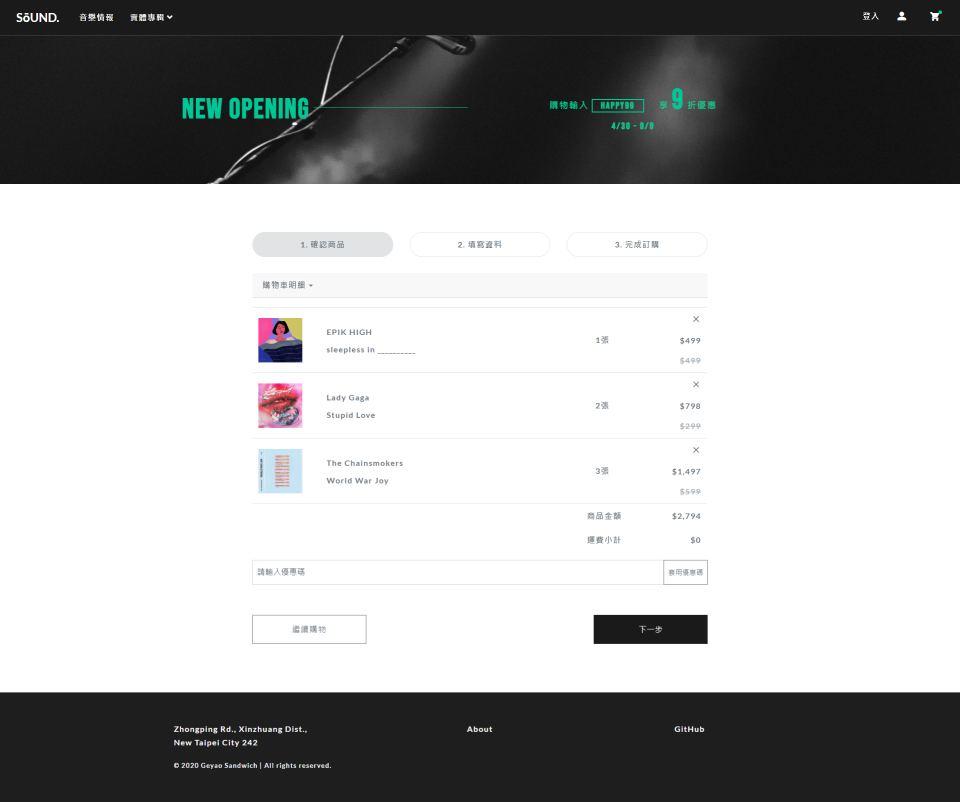
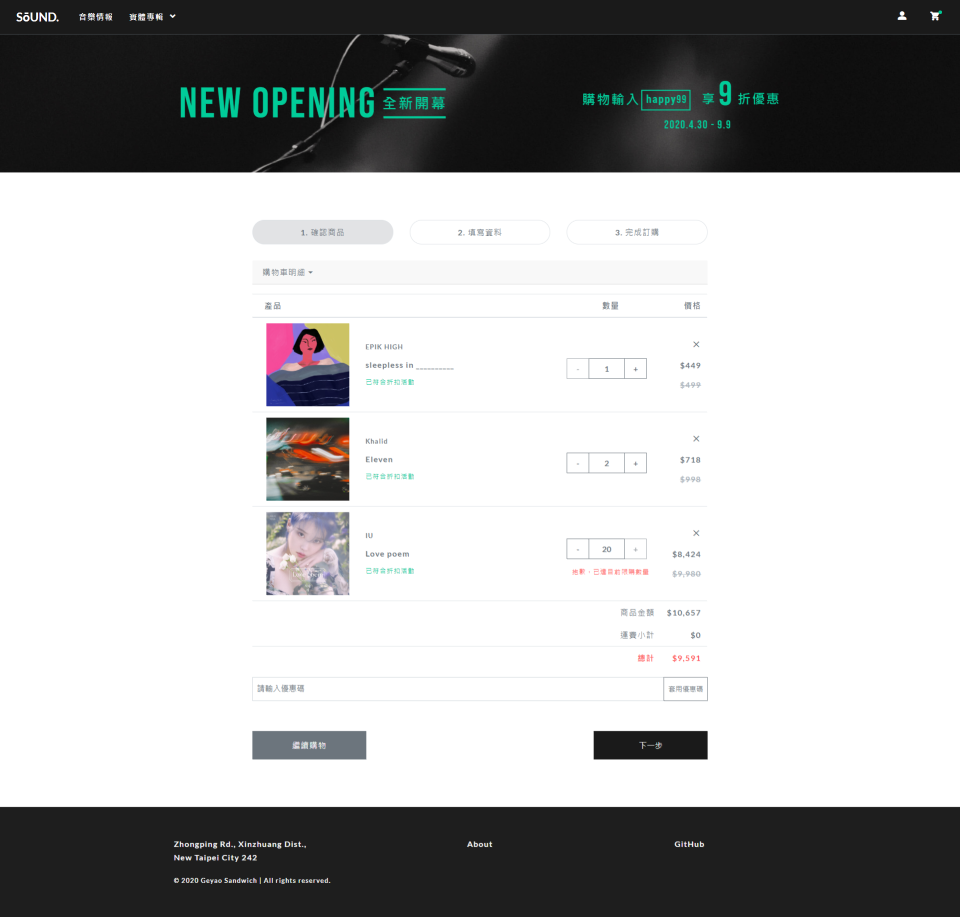
更新截圖

diff --git a/src/components/Client/Carts/CartList/CartListItem.vue b/src/components/Client/Carts/CartList/CartListItem.vue
@@ -5,7 +5,7 @@
       class="align-middle"
     >
       <div class="d-flex text-left align-items-center">
-        <div class="col-4 col-md-4 px-0 px-md-3">
+        <div class="col-4 col-md-3 px-0 px-md-3">
           <img
             :src="item.product.imageUrl"
             alt
@@ -36,7 +36,7 @@
     </td>
     <td
       class="align-middle text-secondary d-none d-md-table-cell"
-      style="width:22%"
+      style="width:20%"
     >
       <CountButton
         :item="item"

diff --git a/src/assets/scss/components/_carousel.scss b/src/assets/scss/components/_carousel.scss
@@ -55,7 +55,7 @@
     }
 
     .h5 {
-      font-size: 0.9rem;
+      font-size: 1rem;
       line-height: 1.5;
       font-weight: bold;
     }
@@ -88,3 +88,9 @@
   transform: rotate(180deg);
 }
 
+.carousel-control-next,
+.carousel-control-prev {
+  @media screen and (max-width: map-get($grid-breakpoints, 'md')) {
+   display: none;
+  }
+}

diff --git a/src/assets/scss/all.scss b/src/assets/scss/all.scss
@@ -20,7 +20,7 @@
 @import "./components/_overlay-hover";
 @import "./components/_nav-tabs";
 @import "./components/_card";
-@import "./components/_banner";
+@import "./components/_carousel";
 @import "./components/_discountbanner";
 @import "./components/_modal";
 @import "./components/_playlist";

diff --git a/src/components/Client/Carts/CartList/CountButton.vue b/src/components/Client/Carts/CartList/CountButton.vue
@@ -1,6 +1,6 @@
 <template>
   <div
-    class="btn-group mr-md-3 mt-3 text-center mb-3 mb-md-0 "
+    class="btn-group mt-3 text-center mb-3 mb-md-0 "
     role="group"
     aria-label="Basic example"
   >
